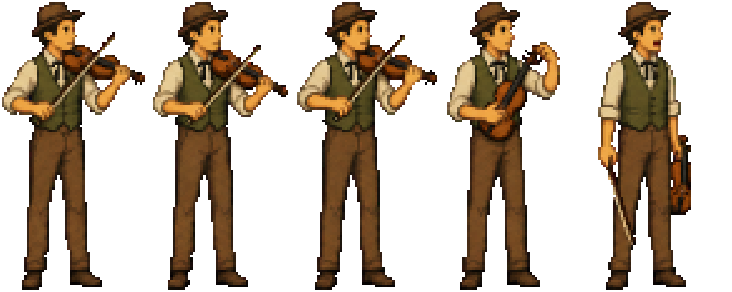
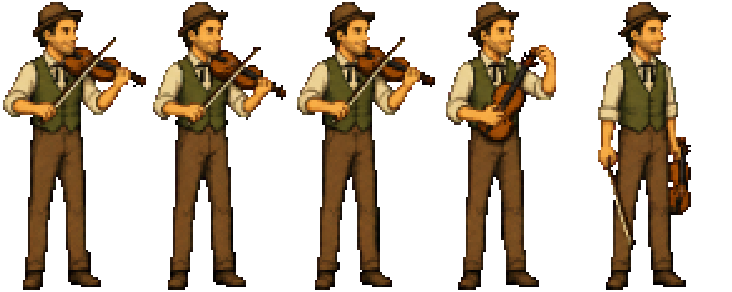
The fiddler drawn as Charlie (fiddler-charlie op 1 of 2)
One operation from the fiddler's own sheet, the Nugget cast standard and a
photograph kept under art/staging/private/ (ignored; only its hash is in the
ledger). Face, hair and build are Charlie's; poses, costume, size and frames
are unchanged. Cut by townspeople-cut.py --only fiddler to the same 144x288
frames, snapped by one-level.py.

Claude-Session: https://claude.ai/code/session_01FXbCurjq3gWmZKUYv89gwi

diff --git a/tools/art/townspeople-cut.py b/tools/art/townspeople-cut.py
@@ -21,7 +21,13 @@ Writes art/actors/<file>.png and art/staging/townspeople-110/cut.json (each
 sheet's frames and the rest pose's own height, which the sprite declares as
 `figureHeight`).
 
-usage: python3 tools/art/townspeople-cut.py
+The fiddler is cut from errata 123's redraw as Charlie
+(art/staging/fiddler-charlie/sheet-01.png, the fiddler-charlie cap): only his
+face, hair and build changed, so the same height, order and frames.
+
+usage: python3 tools/art/townspeople-cut.py [--only <sheet>]
+  --only recuts one sheet and leaves the others, and their entries in
+  cut.json, as they are (each was snapped afterwards by one-level.py).
 """
 import json
 import os
@@ -51,6 +57,13 @@ FIGURES = [
     ('fiddler', 3, 288, [],
      [('fiddler', [0, 2, 1, 3, 4])]),                         # PLAY 1, PLAY 3, PLAY 2, TUNE, TALK
 ]
+# A sheet drawn under another asset's cap, by sheet name.
+SOURCE = {
+    'fiddler': os.path.join(ROOT, 'art/staging/fiddler-charlie/sheet-01.png'),  # errata 123: Charlie
+}
+# A frame width the shipping sprite already declares, kept when a redraw cuts
+# narrower, so content/ambient/<file>.json's frames stand unchanged (errata 123).
+FRAME_WIDTH = {'fiddler': 144}
 
 
 def cut(sheet, height, extra, tmp):
@@ -107,9 +120,14 @@ def standing_height(frame):
 
 
 def main():
-    report = {}
+    import sys
+    only = sys.argv[sys.argv.index('--only') + 1] if '--only' in sys.argv else None
+    cut_json = os.path.join(STAGE, 'cut.json')
+    report = json.load(open(cut_json)) if only and os.path.exists(cut_json) else {}
     for name, attempt, height, extra, outs in FIGURES:
-        src = os.path.join(STAGE, name, f'sheet-{attempt:02d}.png')
+        if only and name != only:
+            continue
+        src = SOURCE.get(name) or os.path.join(STAGE, name, f'sheet-{attempt:02d}.png')
         with tempfile.TemporaryDirectory() as tmp:
             if name == 'boundary-men':
                 a, b = split_pair(src, tmp)
@@ -127,7 +145,7 @@ def main():
                         frames.append(poses[k])
                 # Frames from two halves of one sheet are cut separately and
                 # may differ in width; pad to the widest, feet kept centred.
-                w = max(f.width for f in frames)
+                w = max([f.width for f in frames] + [FRAME_WIDTH.get(out, 0)])
                 hh = max(f.height for f in frames)
                 padded = []
                 for f in frames:
@@ -139,7 +157,7 @@ def main():
                 report[out] = {'sheet': f'art/actors/{out}.png', 'source': os.path.relpath(src, ROOT),
                                'frames': rects, 'figureHeight': standing_height(padded[0])}
                 print(out, len(rects), 'frames', rects[0][2:], 'standing', report[out]['figureHeight'])
-    with open(os.path.join(STAGE, 'cut.json'), 'w') as f:
+    with open(cut_json, 'w') as f:
         json.dump(report, f, indent=1)
 
 
